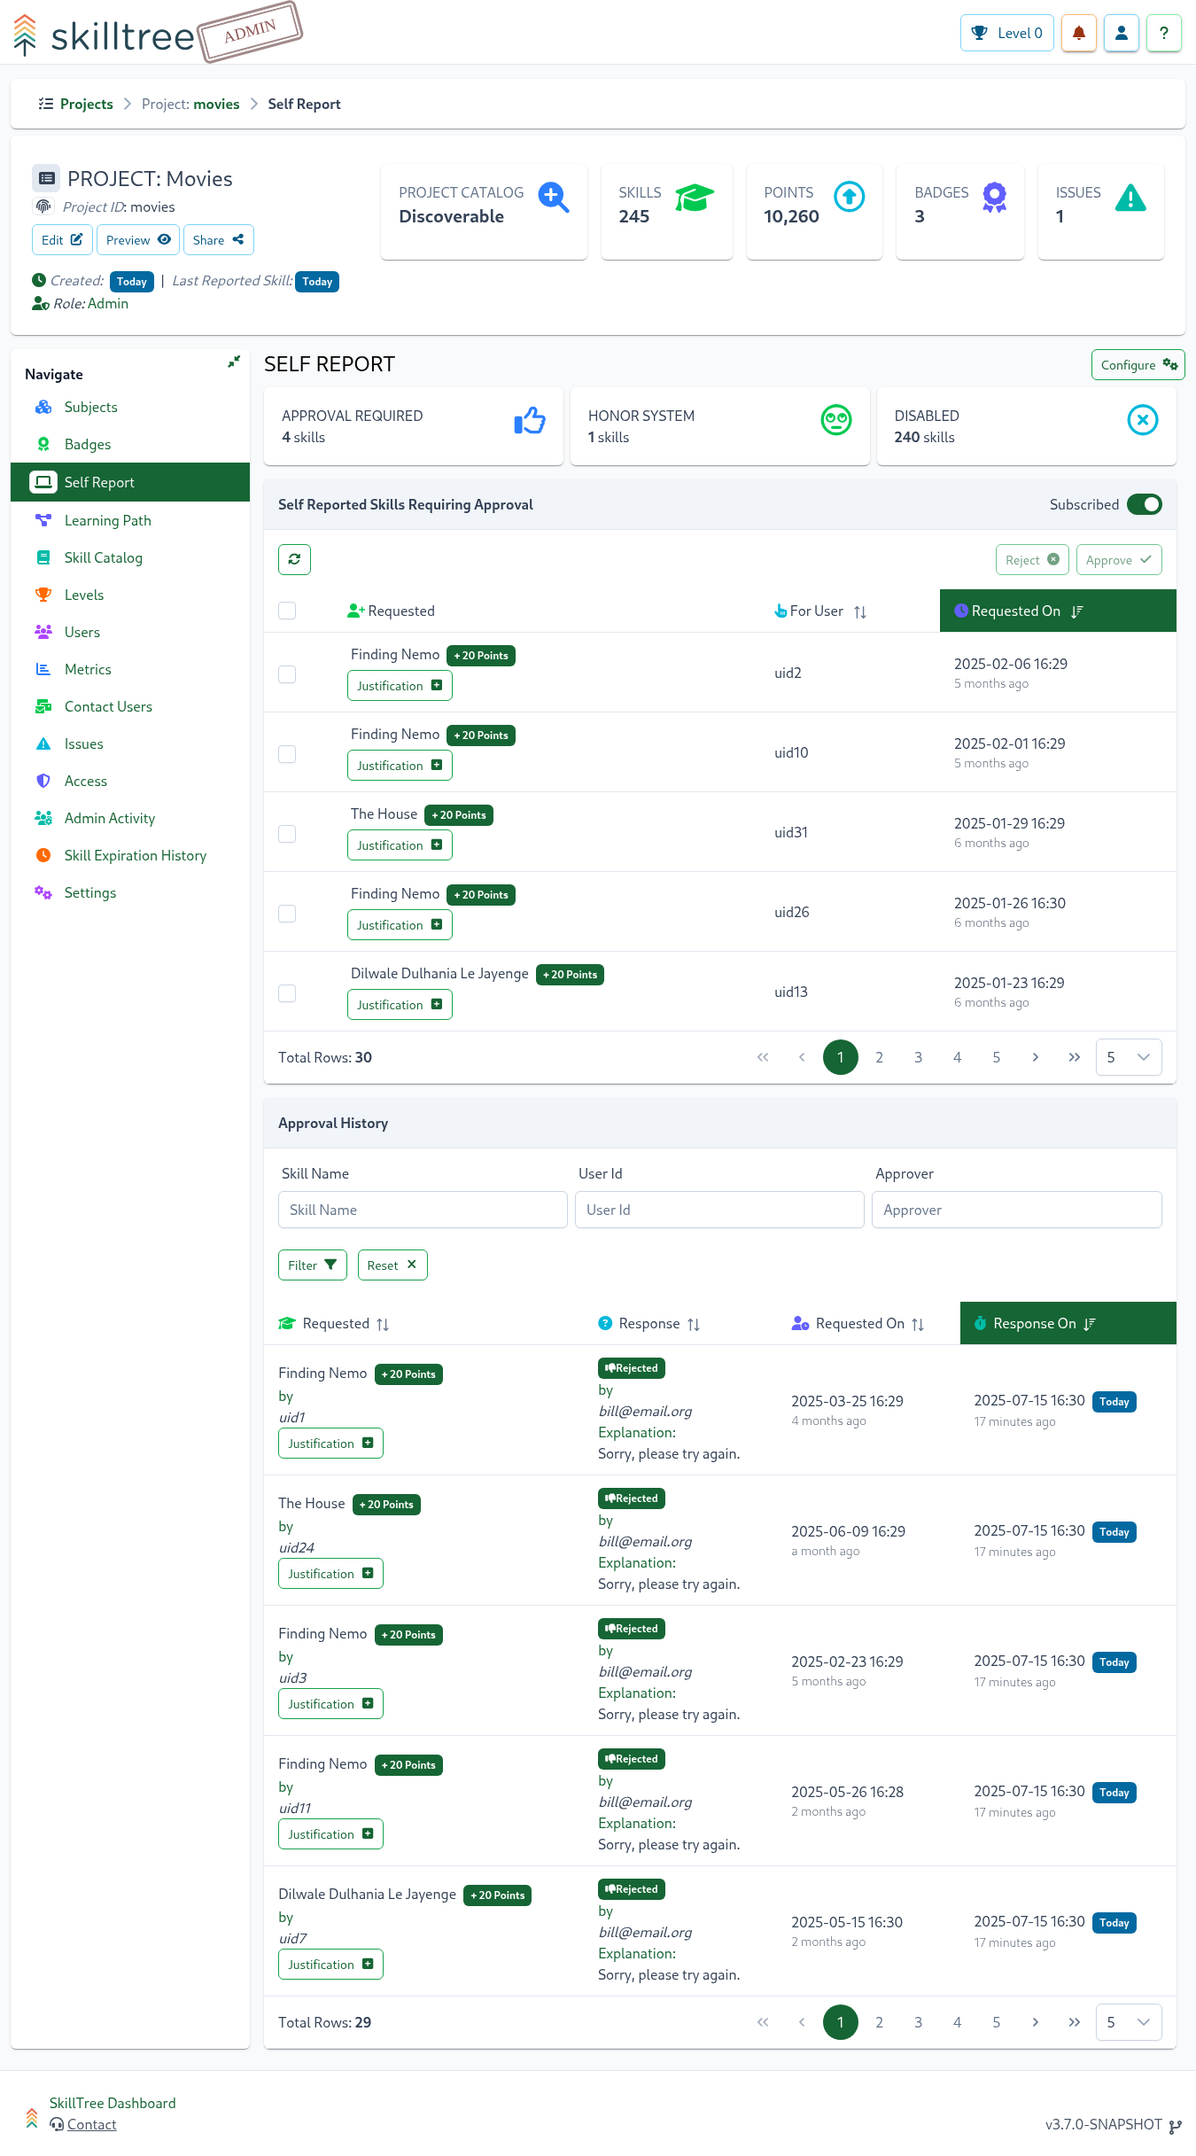
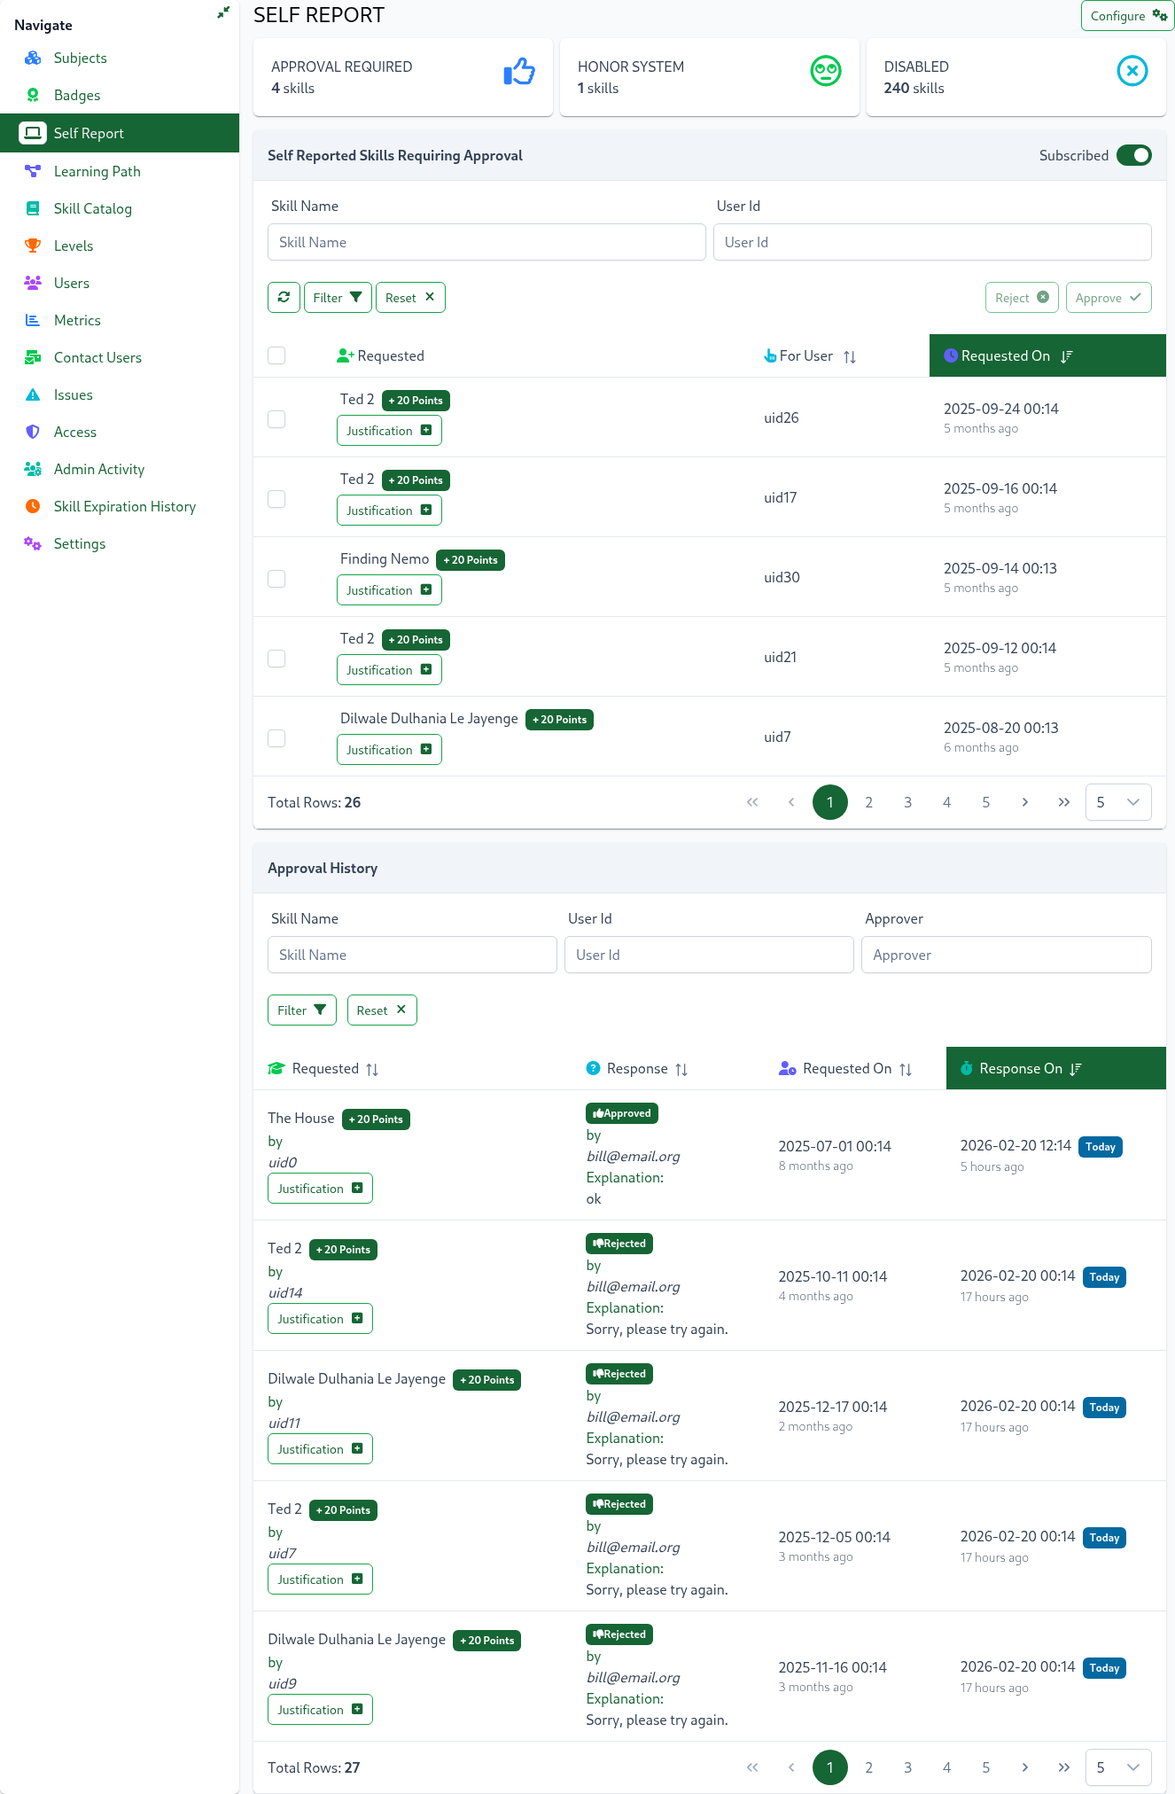
331: 4.1 documentation; upgraded several screenshots; upgraded cypress and vue

diff --git a/cypress/e2e/admin-quiz_and_surveys.cy.js b/cypress/e2e/admin-quiz_and_surveys.cy.js
@@ -7,6 +7,15 @@ context('Admin: Generate Quiz and Surveys Screenshots', () => {
         cy.viewport(displayWidth, 800);
         cy.register('bob1@email.org', 'password', 'Bob', 'Smith')
         cy.login();
+
+        cy.intercept('GET', '/public/config', (req) => {
+            req.reply((res) => {
+                const conf = res.body;
+                conf.disableScrollToTop = true;
+                conf.enableOpenAIIntegration = true;
+                res.send(conf);
+            });
+        }).as('loadConfig');
     });
 
     it('quizzes page', () => {
@@ -113,6 +122,16 @@ context('Admin: Generate Quiz and Surveys Screenshots', () => {
         cy.snap('page-quiz-runs');
     })
 
+    it('quiz runs table', () => {
+        cy.viewport(1500, 1800)
+        cy.visit('/administrator/quizzes/ShortScienceQuiz/runs')
+        cy.get('[data-cy="userFilterBtn"]')
+        cy.get('[data-cy="row0-userCell"]')
+
+        cy.snap('component-quiz-runs-table', '[data-cy="quizRunsHistoryTable"]')
+    })
+
+
     it('quiz single run page', () => {
         cy.visit('/administrator/quizzes/ShortScienceQuiz/runs')
         cy.get('[data-cy="userFilterBtn"]')
@@ -186,6 +205,16 @@ context('Admin: Generate Quiz and Surveys Screenshots', () => {
         cy.visit('/administrator/quizzes/ShortScienceQuiz/access')
         cy.get('[data-cy="roleManagerTable"] [data-cy="skillsBTableTotalRows"]').should('have.text', '1')
         cy.snap('page-quiz-access');
+    })
+
+    it('ai grading', () => {
+        cy.visit('/administrator/quizzes/ChessInsight')
+        cy.get('[data-cy="ai-grader-question-1"]').click()
+        cy.get('[data-cy="aiGraderEnabled"]').click()
+        cy.get('[data-cy="answerForGrading"]')
+        cy.get('[data-cy="saveGraderSettingsBtn"]').should('be.disabled')
+
+        cy.snap('component-ai-text-input-grader', '#mainContent2');
     })
 
 })

diff --git a/cypress/e2e/admin.cy.js b/cypress/e2e/admin.cy.js
@@ -7,6 +7,15 @@ context('Admin: Generate Screenshots', () => {
         cy.viewport(displayWidth, 900);
         cy.register('bob1@email.org', 'password', 'Bob', 'Smith')
         cy.login();
+
+        cy.intercept('GET', '/public/config', (req) => {
+            req.reply((res) => {
+                const conf = res.body;
+                conf.disableScrollToTop = true;
+                conf.enableOpenAIIntegration = true;
+                res.send(conf);
+            });
+        }).as('loadConfig');
     });
 
     it('Gen Projects pages', () => {
@@ -170,7 +179,7 @@ context('Admin: Generate Screenshots', () => {
         cy.clickNav('Self Report');
         cy.get('[data-cy="skillsReportApprovalTable"] [data-p-index="1"]')
 
-        cy.snap('page-project-self_report');
+        cy.snap('page-project-self_report', '#mainContent1 [data-cy="nav"]');
     });
 
     it('Skill Tags page', () => {

diff --git a/docs/.vuepress/components/Conditional.vue b/docs/.vuepress/components/Conditional.vue
@@ -1,6 +1,6 @@
 <script setup>
 import { computed } from 'vue'
-import {useThemeData} from "@vuepress/theme-default/client";
+import {themeData} from "@vuepress/plugin-theme-data/client";
 const props = defineProps({
   visibilityFlag: String,
   visibilityValue: {
@@ -8,7 +8,6 @@ const props = defineProps({
     default: true,
   },
 })
-const themeData = useThemeData()
 const getVisible = computed(() => themeData.value.visibility[props.visibilityFlag] === props.visibilityValue)
 </script>
 

diff --git a/docs/.vuepress/components/ExternalUrl.vue b/docs/.vuepress/components/ExternalUrl.vue
@@ -1,6 +1,6 @@
 <script setup>
 import { computed } from 'vue'
-import {useThemeData} from "@vuepress/theme-default/client";
+import {themeData} from "@vuepress/plugin-theme-data/client";
 const props = defineProps({
   url: String,
   label: String,
@@ -9,7 +9,6 @@ const props = defineProps({
     default: true,
   },
 })
-const themeData = useThemeData()
 const noExternalLinks = computed(() => themeData.value.visibility['noExternalLinks'] === true)
 </script>
 

diff --git a/docs/.vuepress/components/FormAndPki.vue b/docs/.vuepress/components/FormAndPki.vue
@@ -1,6 +1,6 @@
 <script setup>
 import { ref, computed, onMounted } from 'vue'
-import {useThemeData} from "@vuepress/theme-default/client";
+import {themeData} from "@vuepress/plugin-theme-data/client";
 
 const props = defineProps({
   pkiPath: {
@@ -12,7 +12,6 @@ const props = defineProps({
     required: true,
   },
 })
-const themeData = useThemeData()
 
 const getNavItems = () => {
   let res = [

diff --git a/docs/.vuepress/components/ServiceUrl.vue b/docs/.vuepress/components/ServiceUrl.vue
@@ -1,8 +1,7 @@
 <script setup>
 import { computed } from 'vue'
-import {useThemeData} from "@vuepress/theme-default/client";
+import {themeData} from "@vuepress/plugin-theme-data/client";
 
-const themeData = useThemeData()
 const serviceUrl = computed(() => themeData.value.skillTreeServiceUrl)
 </script>
 

diff --git a/docs/dashboard/user-guide/quizzes-and-surveys.md b/docs/dashboard/user-guide/quizzes-and-surveys.md
@@ -121,7 +121,7 @@ Similarly to videos, users can embed audio clips into their quizzes using the `A
 
 <Content path="/dashboard/user-guide/common/audio.md"/>
 
-### Answer Grading
+### Manual Answer Grading
 
 If a quiz has at least 1 ``Input Text`` question then after a quiz taker submits an attempt a quiz administrator will be able to grade the answers for the ``Input Text`` questions.
 
@@ -130,11 +130,21 @@ To do so please navigate to ``Quizzes and Surveys -> Quiz -> Grading`` page.
 
 ![page-quiz-grading.png](../../screenshots/admin/page-quiz-grading.png)
 
-A table of quiz attempts that contain ``Input Text`` questions will be displayed. Click on the ``Grade`` button to the right of the user to open the grading request. 
-Once expanded answers can be marked as either "Correct" or "Wrong", in addition a justification can be provided. 
-Once all the answers are marked as either correct or wrong, the system will grade the quiz attempt in its entirety considering all the questions in this quiz.
+A table of quiz attempts containing `Input Text` questions will be displayed. Click the Grade button next to a user to
+open the grading interface.
 
-#### **AI-Powered Grading for Text Input Questions** <since project="skills-service" version="4.1" />
+In the grading interface, each answer can be marked as **Correct** or **Wrong**, and you can provide a justification. Once all
+answers are graded, the system will finalize the quiz attempt score considering all questions.
+
+Administrators can manually override grades by navigating to the [Runs](/dashboard/user-guide/quizzes-and-surveys.html#runs) page and selecting a specific quiz run. Each
+graded Text Input question displays an **Override Grade** button in the top-right corner.
+
+When overriding a grade, the system presents a modal dialog where administrators can:
+- Provide an optional justification for the grade change
+- Choose whether to notify the user of the grade update
+
+### AI-Powered Grading 
+<since project="skills-service" version="4.1" />
 
 SkillTree now supports AI-powered grading for text input questions, enabling automated evaluation of free-form responses using Large Language Models (LLMs). This feature helps reduce the manual grading burden while maintaining consistent and accurate assessment.
 
@@ -143,14 +153,16 @@ SkillTree now supports AI-powered grading for text input questions, enabling aut
 - **Confidence Scoring**: AI provides confidence levels for each grading decision
 - **Configurable Thresholds**: Administrators set minimum confidence levels for automatic grading
 
-##### Configuring AI Grading
+#### Configuring AI Grading
 
 To enable AI grading for text input questions:
 
 1. Navigate to the ``Quizzes and Surveys -> Quiz -> Questions`` page
 2. Click on the **AI Grader** button next to the Input Text question
-3. Configure the following settings:
 
+![component-ai-text-input-grader.png](../../screenshots/admin/component-ai-text-input-grader.png)
+
+Configure the following settings:
 | Setting                          | Description                                                                                                       |
 |:---------------------------------|:------------------------------------------------------------------------------------------------------------------|
 | **AI Grader Enabled**            | Toggle to activate AI-powered grading for text input questions                                                    |
@@ -164,14 +176,14 @@ To enable AI grading for text input questions:
 When AI grading is enabled:
 
 1. **Automatic Submission**: Text input answers are automatically submitted for AI evaluation after quiz completion
-2. **AI Evaluation**: The configured AI model assesses each answer based on your grading instructions
-3. **Confidence Assessment**: The AI provides a confidence score for each grading decision
+2. **AI Evaluation**: The AI model evaluates each answer using the provided grading instructions 
+3. **Confidence Assessment**: The AI provides a confidence score and a justification for each grading decision
 4. **Result Processing**: 
    - Answers meeting or exceeding the minimum confidence level are automatically graded as correct
    - Answers below the threshold are graded as incorrect
 5. **Final Grading**: The quiz attempt is finalized once all answers are graded (either automatically or manually)
 
-##### AI Grading Preview
+#### AI Grading Preview
 
 While configuring AI grading for your text input questions, you can test and refine your grading configuration using the AI Grading Preview feature. This allows you to enter sample answers and see how the AI model will grade them based on your current settings.
 
@@ -199,11 +211,25 @@ To use the AI Grading Preview, enter a sample answer in the **Answer** field and
 
 The AI Grading Preview helps ensure your AI grading configuration will work effectively before deploying it to live quiz attempts, reducing the need for manual corrections after implementation.
 
-##### Monitoring AI Grading
+#### Monitoring AI Grading
 
-Administrators can monitor AI grading results by visiting the [Runs](/dashboard/user-guide/quizzes-and-surveys.html#runs) page and then selecting the run details button to the right of the user to view details of that particular Quiz/Survey run..
+Administrators can monitor AI grading results by visiting the [Runs](/dashboard/user-guide/quizzes-and-surveys.html#runs) page and then selecting the run details button to the right of the user to view details of that particular Quiz/Survey run.
+If a failure is encountered, the grading mechanism is designed with resiliency in mind and will continue retrying the
+grading for an extended period of time. The number of failed and remaining attempts are displayed both on the [Grading](/dashboard/user-guide/quizzes-and-surveys.html#answer-grading)
+and [Runs](/dashboard/user-guide/quizzes-and-surveys.html#runs) pages. In the unlikely event that all attempts are exhausted, the system will email all quiz administrators and
+manual grading will be required.
 
-##### Best Practices for AI Grading
+#### Manually Override AI Grade
+
+Administrators can manually override AI grades by navigating to
+the [Runs](/dashboard/user-guide/quizzes-and-surveys.html#runs) page and drilling down to a specific quiz run. Each
+graded Text Input question displays an "Override Grade" button in the top-right corner of the question section.
+
+When overriding an AI grade, the system presents a modal dialog where administrators can:
+- Provide an optional justification
+- Choose whether to notify the user of the updated decision
+ 
+#### Best Practices for AI Grading
 
 - **Clear Grading Criteria**: Provide detailed, specific instructions for what constitutes correct answers
 - **Appropriate Confidence Thresholds**: Start with conservative thresholds (70-80%) and adjust based on AI performance
@@ -276,6 +302,11 @@ Enabling this feature will only display answer hints on subsequent quiz retakes 
 #### Setting: Display Quiz Description During Quiz
 
 Enabling this feature will display the quiz description while the quiz is being taken.
+
+#### Setting: Hide Answers for Completed Quizzes
+
+When enabled, users cannot review their answers after completing the quiz, regardless of whether they passed or failed.
+This helps maintain assessment integrity by preventing answer sharing. 
 
 ## Survey
 
@@ -390,15 +421,29 @@ runs please visit [Runs](/dashboard/user-guide/quizzes-and-surveys.html#runs) pa
 ![Quiz Results Page Screenshot](../../screenshots/admin/page-quiz-results.png)
 
 ## Runs
-To track individual quiz/survey runs please visit the Runs page (``Quizzes and Surveys -> Quiz/Survey -> Results ``). Each row represents a single Quiz/Survey for a single user.
+To track individual quiz/survey attempts, visit the **Runs** page (`Quizzes and Surveys → Quiz/Survey → Results`). Each row represents a single quiz or survey attempt by a user.
 
-![Quiz Runs Page Screenshot](../../screenshots/admin/page-quiz-runs.png)
+![component-quiz-runs-table.png](../../screenshots/admin/component-quiz-runs-table.png)
 
-Select the run details button to the right of the user to view details of that particular Quiz/Survey run.
+**Runs Table Features:**
+- **User** - The user who attempted the quiz/survey
+- **Status** - Current state: **Passed**, **Failed**, or **Needs Grading**
+- **Runtime** - Time taken to complete the quiz/survey
+- **Started** - Date and time when the attempt began
+- **Results** - Number of correct answers out of total questions
+- **Actions** - Delete button to remove the attempt
+
+::: tip
+The runs table can be filtered by user to find specific attempts.
+:::
+
+Click the **run details button** next to a user to view comprehensive information about that specific quiz/survey attempt.
 
 ![Quiz Single Run Page Screenshot](../../screenshots/admin/page-quiz-single-result.png)
 
-Quiz results will depict selected answer(s) and its correctness status. Survey results will simply display which results were selected. 
+::: tip 
+Quiz results will depict selected answer(s) and their correctness status. Survey results will simply display which answers were selected.
+:::
 
 ## Skill Association
 

diff --git a/docs/release-notes/skills-service.md b/docs/release-notes/skills-service.md
@@ -8,6 +8,21 @@ To obtain deployable artifacts please visit [Distributions](/dashboard/install-g
 
 </conditional>
 
+## 4.1
+<release-date date="February 2026" />
+- ✨ **[AI-Powered Grading](/dashboard/user-guide/quizzes-and-surveys.html#ai-powered-grading)** - Streamlined grading experience for Input Text questions using AI technology
+  - Configure the AI grader with correct answers and confidence thresholds directly from question cards
+  - Automatic AI grading with transparency through confidence levels and detailed reasoning
+  - Manual grade-override functionality with optional user email notifications
+  - Failed grading attempts are automatically retried
+- **Self-Admin Removal** - Allow users to remove themselves from admin roles
+- **[Approval Queue Search](/dashboard/user-guide/self-reporting.html#approval-queue)** - Search by user and skill in the "Skills Requiring Approval" table
+- **[Quiz Results Review](/dashboard/user-guide/quizzes-and-surveys.html#runs)** - View correct answer counts directly in the Quiz Run table for better assessment insights
+- **[Quiz Answer Visibility Control](/dashboard/user-guide/quizzes-and-surveys.html#setting-hide-answers-for-completed-quizzes)** - New quiz setting to hide answers on passed quiz attempts for better assessment integrity
+- **Expanded Self-Reporting** - <Self-repo></Self-repo>rt skills directly on Global Badges and cross-project skills on Learning Paths
+- Latency improvements for user and metrics pages
+- Bug Fixes
+
 ## 4.0
 <release-date date="January 2026" />
 - ✨ [AI-Powered Content Generation](/dashboard/user-guide/ai-assistant.html)

diff --git a/docs/dashboard/user-guide/self-reporting.md b/docs/dashboard/user-guide/self-reporting.md
@@ -78,13 +78,24 @@ Alternatively you can have only some skills configured with Self Reporting or no
 
 ## Approval Queue
 
-If a skill is configured with Self Reporting type of the ``Approval Queue`` then points will not be awarded right away but rather go
-through the simple approval workflow:
-1. User clicks ``Begin Request`` button and requests points
-1. Request appears on the project's Self Report page (see the Screenshot below)
-1. Project administrator approves or reject requests
+When a skill is configured with the **Approval Queue** self-reporting type, points are not awarded immediately. Instead, they go through the following approval workflow:
+
+1. **User Request**: The user clicks the **Begin Request** button to request points for the skill
+2. **Queue Display**: The request appears in the project's **Self Report** page under the Approval Queue (see screenshot below)
+3. **Admin Review**: A project administrator reviews and either approves or rejects the request
 
 ![SkillTree Skills Page](../../screenshots/admin/page-project-self_report.png)
+
+**To approve or deny requests:**
+1. Select one or more requests from the queue
+2. Click the **Approve** or **Reject** button
+3. Enter an optional justification for your decision
+4. Confirm the action
+
+**Filtering the Approval Queue:**
+The approval queue can be filtered by:
+- **Skill Name** - Search for specific skills
+- **User ID** - Filter by specific users
 
 ### Approval History 
 

diff --git a/docs/dashboard/user-guide/projects.md b/docs/dashboard/user-guide/projects.md
@@ -228,9 +228,17 @@ When a user's access to an Invite Only project has been revoked, only that user'
 
 ## Copy Project
 
-To use an existing Project as a template you can easily copy its training profile (subjects, skills, badges, etc..) into a brand-new project.  
-To copy a project please use the ![copy project button](./screenshots/copy_btn.png) button available on a project card on the Project page. 
-The system will prompt you to enter a new project name and optionally modify the project id. 
+To use an existing Project as a template, you can easily copy its training profile (subjects, skills, badges, etc.) into a brand-new project.
+
+To copy a project:
+- Navigate to the Projects Admin page
+- Locate the project card you want to copy
+- Click the copy project button ![copy project button](./screenshots/copy_btn.png) (positioned between the edit and delete buttons)
+- Enter a new project name in the dialog
+- Optionally modify the auto-generated project ID
+- Click Copy to create the new project
+ 
+The system will create a new project with the copied training profile.
 
 The following training profile elements are copied into the new project: 
 - [Subjects](/dashboard/user-guide/subjects.html) and their attributes (description, help url, etc..)

diff --git a/docs/dashboard/user-guide/ai-assistant.md b/docs/dashboard/user-guide/ai-assistant.md
@@ -147,3 +147,17 @@ Adjust the temperature setting to control the AI's creativity:
 - **For most tasks**: The default Neutral setting works well
 
 Your settings will be remembered for future AI Assistant sessions.
+
+## AI-Powered Grading <since project="skills-service" version="4.1" />
+
+Transform your grading workflow with intelligent AI assistance for Input Text questions. This feature significantly reduces manual grading effort while maintaining consistent, accurate assessment with full transparency.
+
+Key Features:
+- **Smart AI Grading** - Automatic evaluation with confidence scores and detailed reasoning explanations
+- **Flexible Override Options** - Manual grade override with optional user email notifications
+- **Robust Admin Controls** - Complete workflow management including retry logic and submission tracking
+- **AI Grading Preview** - Administrative testing function to preview how AI will grade different answer variations
+
+::: tip Ready to dive deeper?
+Check out the comprehensive [AI-Powered Grading](/dashboard/user-guide/quizzes-and-surveys.html#ai-powered-grading-for-text-input-questions) guide in our Quizzes and Surveys documentation.
+:::
